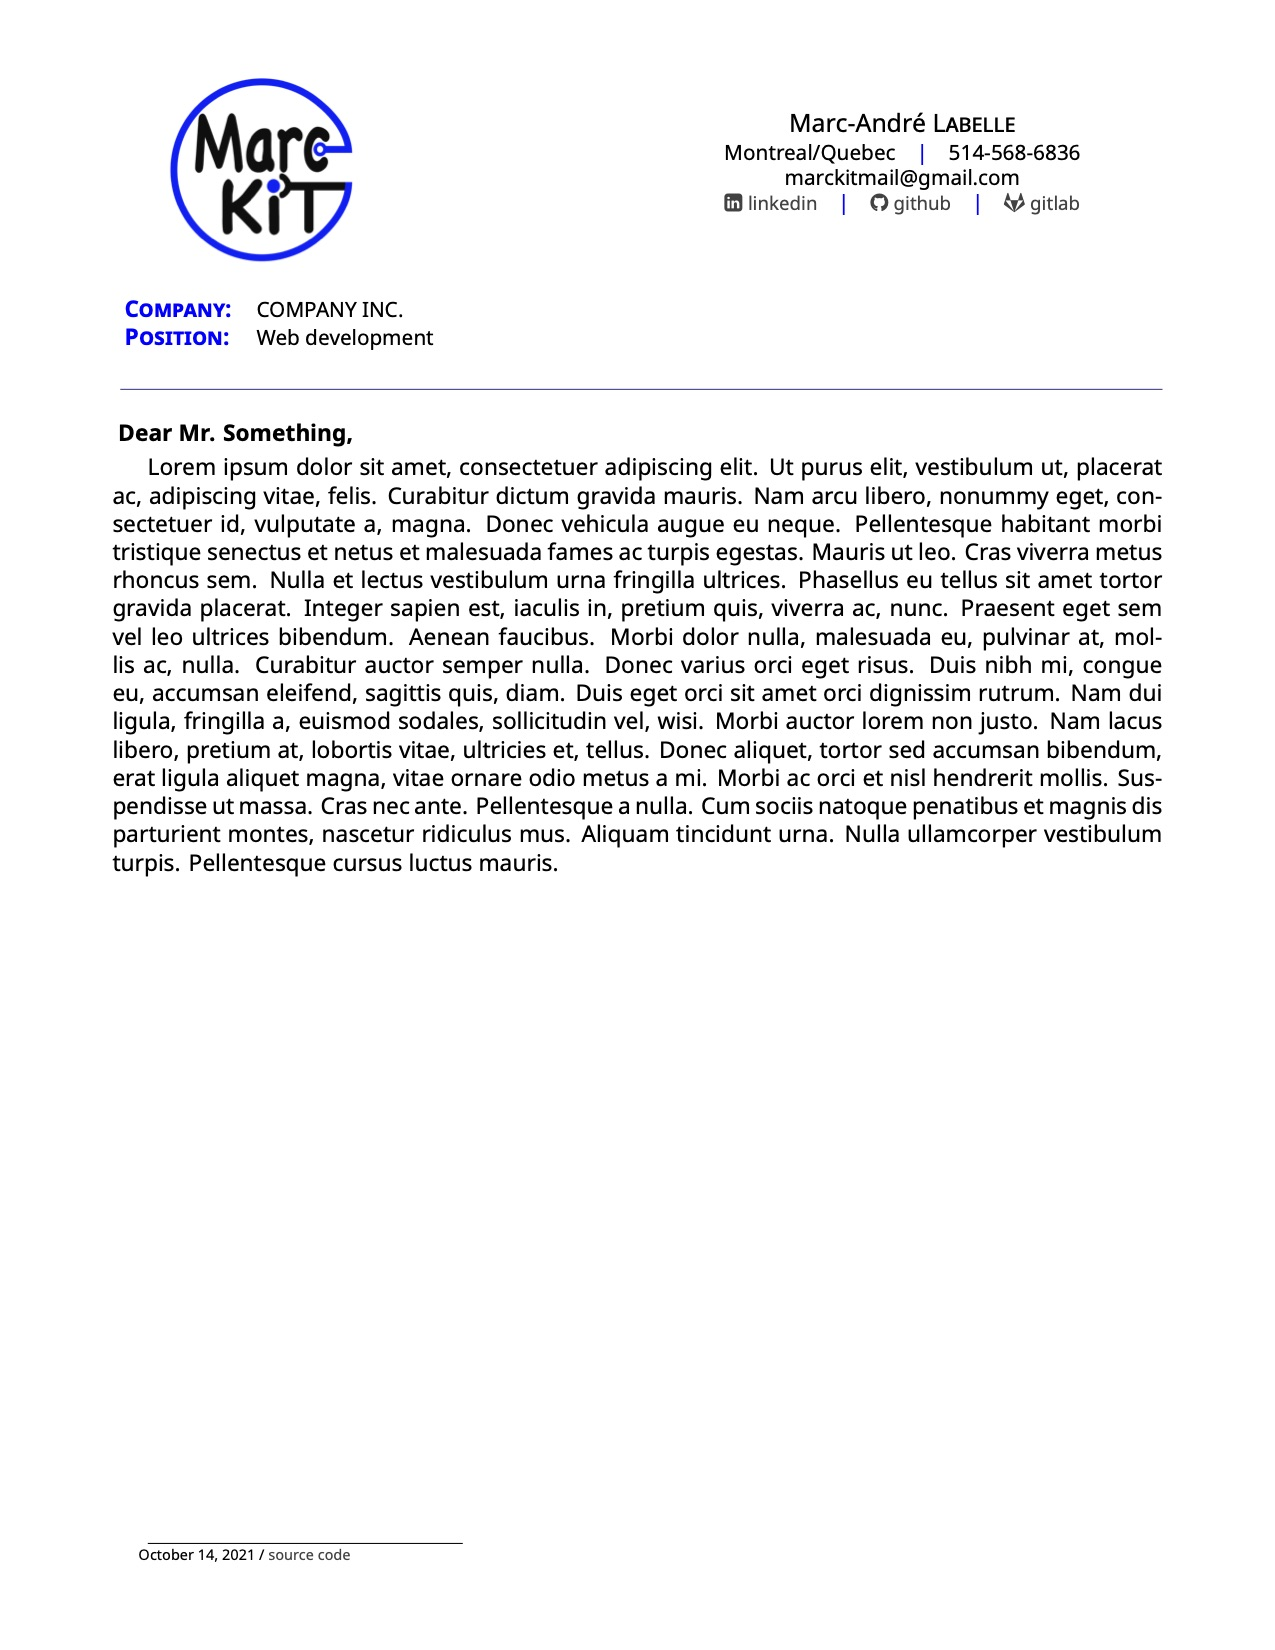
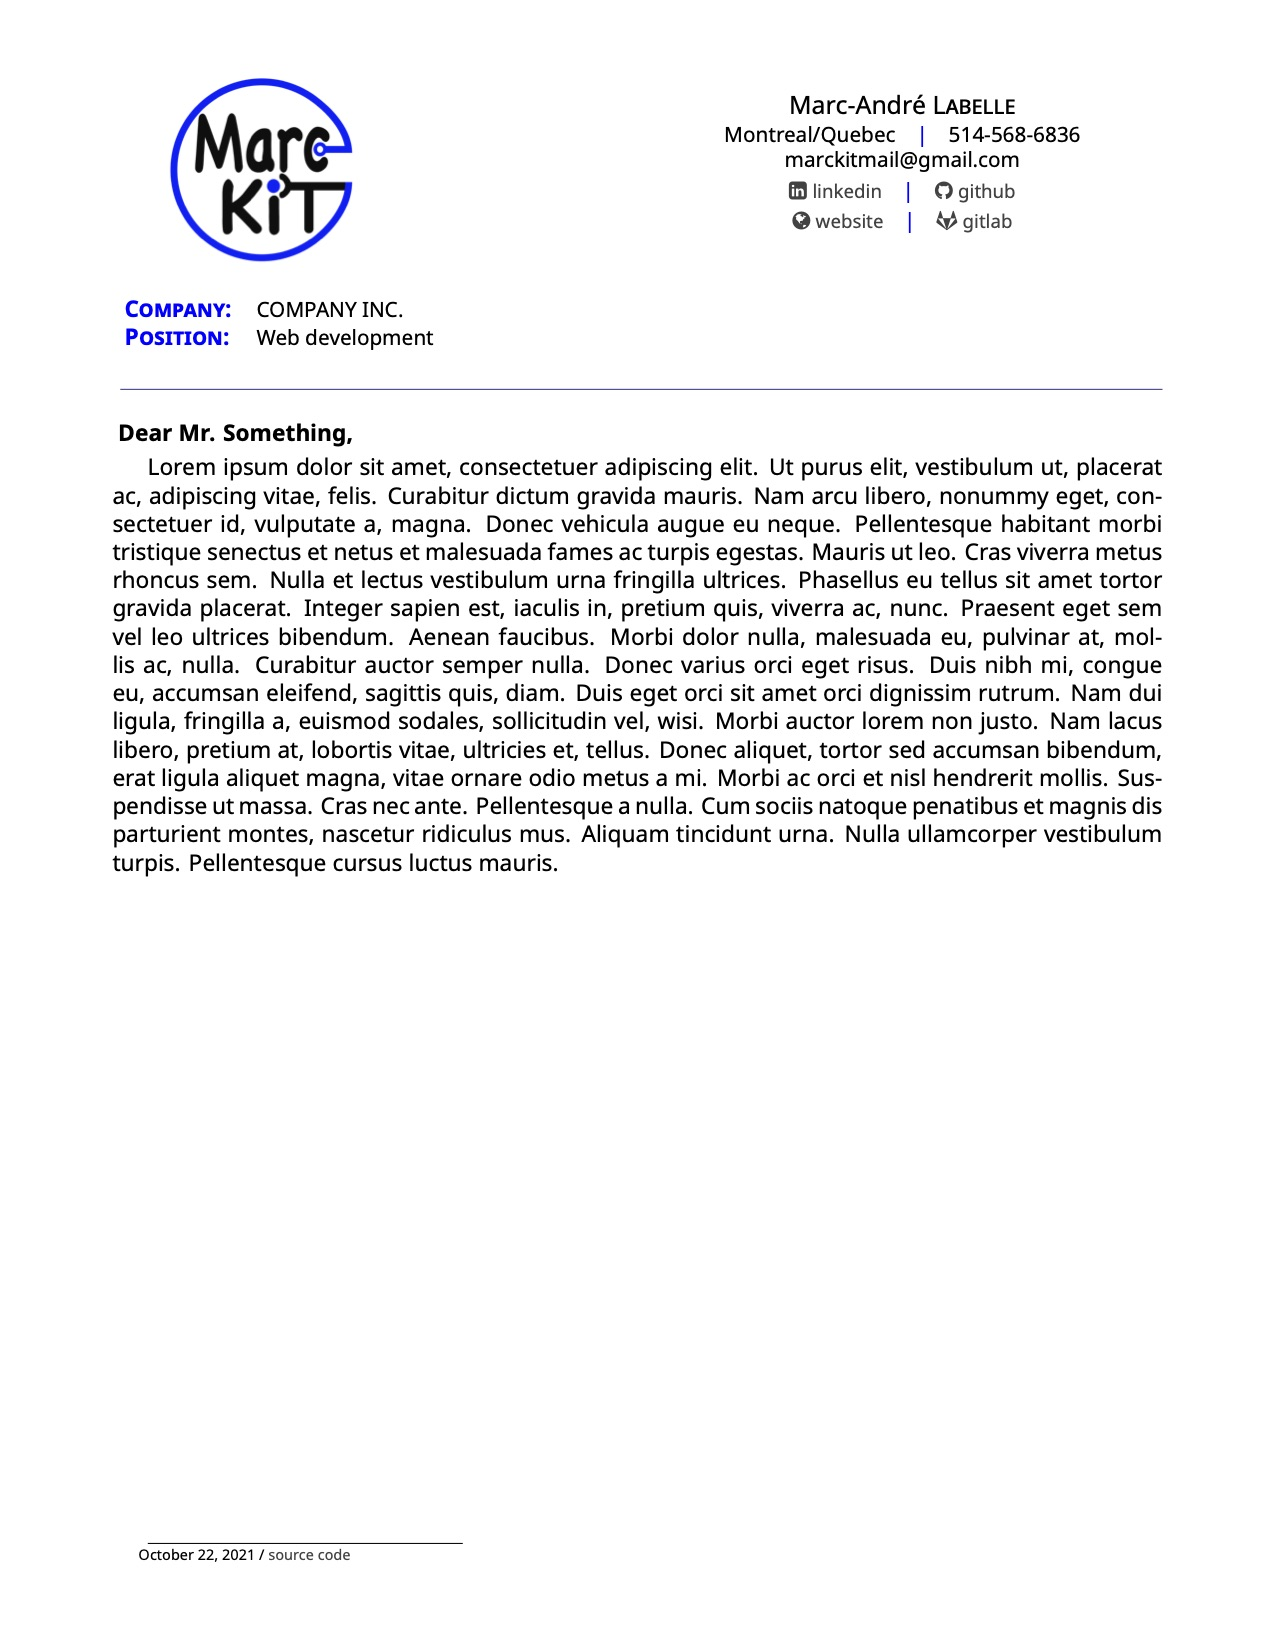
Adding personal website + credits + license

Changed region(s): [[0.5506, 0.0618, 0.8565, 0.1545]]

diff --git a/src/coverletter.tex b/src/coverletter.tex
@@ -6,6 +6,7 @@
 \setmail{marckitmail@gmail.com}
 \setposition{Newly Graduate}
 \setlinkedinaccount{https://www.linkedin.com/in/marckit/}
+\setwebsite{https://marckit.com/}
 \setgithubaccount{https://github.com/marckit}
 \setgitlabaccount{https://gitlab.com/marckit}
 \setthemecolor{blue} %color

diff --git a/src/cv.tex b/src/cv.tex
@@ -5,6 +5,7 @@
 \setmobile{514-568-6836}
 \setmail{marckitmail@gmail.com}
 \setlinkedinaccount{https://www.linkedin.com/in/marckit/}
+\setwebsite{https://marckit.com/}
 \setgithubaccount{https://github.com/marckit}
 \setgitlabaccount{https://gitlab.com/marckit}
 \setthemecolor{blue} %color

diff --git a/README.md b/README.md
@@ -19,6 +19,14 @@
   </div>
 </h1>
 
+
+## Table of content
+
+* [How to run](#how-to-run)
+* [Download Files](#download-files)
+* [Final Results](#final-results)
+* [License and credits](#license-and-credits)
+
 ## How to run
 
 To run cv simply use the command `make` in the terminal.
@@ -29,14 +37,24 @@ Here are the links to download the docs:
 - [cv.pdf][1]
 - [coverletter.pdf][2]
 
-# Final Results
+There is also a `french` version [here][3].
+
+## Final Results
 
 | Curriculum Vitae | Coverletter |
 |:---:|:---:|
-|[![Curriculum Vitea marckit](https://github.com/marckit/cv-marckit/blob/main/src/images/docs/cv.jpg)][3]|[![Coverletter marckit](https://github.com/marckit/cv-marckit/blob/main/src/images/docs/coverletter.jpg)][4]|
+|[![Curriculum Vitae marckit](https://github.com/marckit/cv-marckit/blob/main/src/images/docs/cv.jpg)][4]|[![Coverletter marckit](https://github.com/marckit/cv-marckit/blob/main/src/images/docs/coverletter.jpg)][5]|
+
+## License and credits
+
+This [curriculum vitae][6] was inspired by [muratcankaracabey][7].
+This project is under the license of [MIT](./LICENSE).
 
 <!--- Download links -->
 [1]:https://raw.githubusercontent.com/marckit/cv-marckit/main/pdf/cv.pdf
 [2]:https://raw.githubusercontent.com/marckit/cv-marckit/main/pdf/coverletter.pdf
-[3]:https://github.com/marckit/cv-marckit/blob/main/src/images/docs/cv.jpg
-[4]:https://github.com/marckit/cv-marckit/blob/main/src/images/docs/coverletter.jpg
+[3]:https://github.com/marckit/cv-marckit/tree/french
+[4]:https://github.com/marckit/cv-marckit/blob/main/src/images/docs/cv.jpg
+[5]:https://github.com/marckit/cv-marckit/blob/main/src/images/docs/coverletter.jpg
+[6]:https://github.com/muratcankaracabey/latex_cv/
+[7]:https://github.com/muratcankaracabey/
